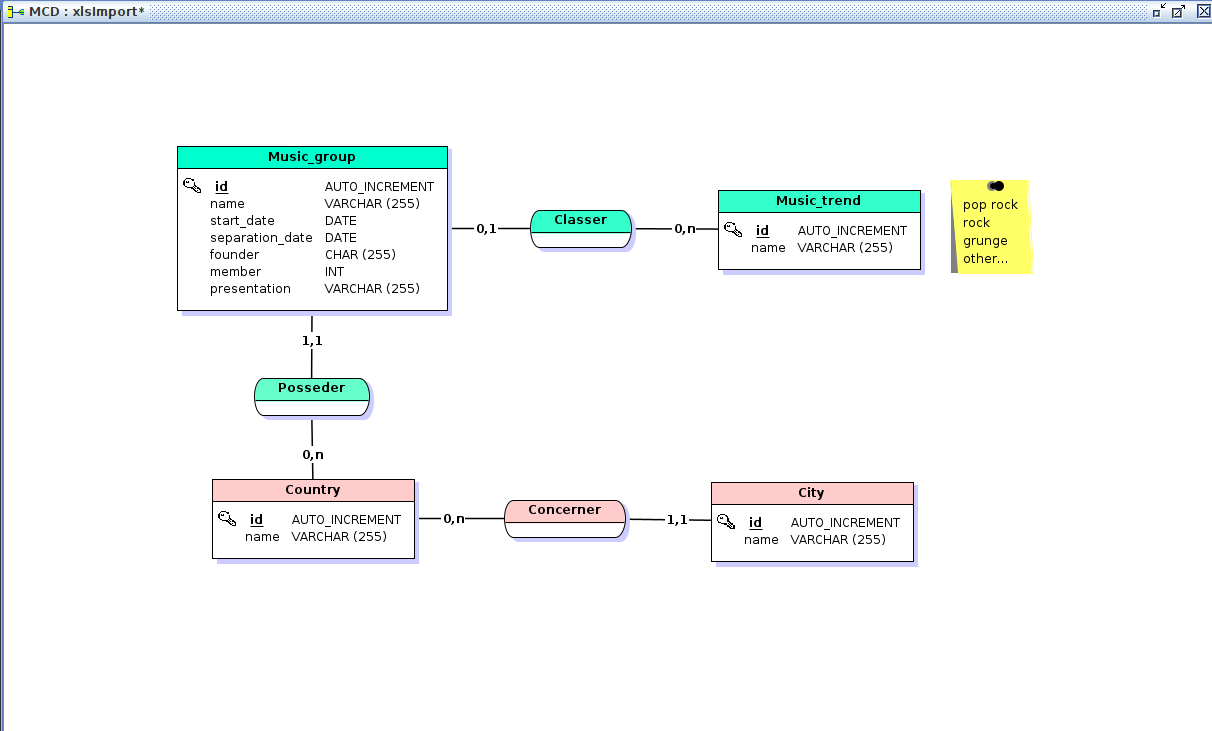
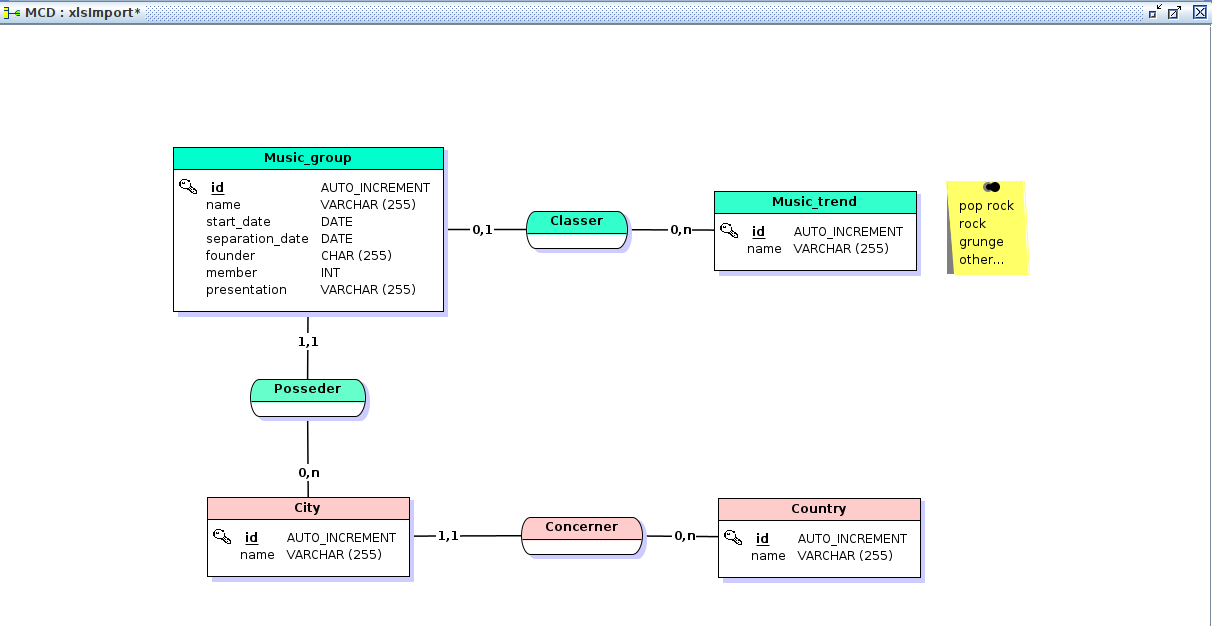
Update Entity & Fixtures: MusicGroup & make relation City N1 MusicGroup

Changed region(s): [[0.1221, 0.1821, 0.8548, 0.9409], [0.0, 0.0, 1.0, 1.0]]

diff --git a/project/XlsBack/src/Entity/City.php b/project/XlsBack/src/Entity/City.php
@@ -4,6 +4,8 @@ namespace App\Entity;
 
 use ApiPlatform\Core\Annotation\ApiResource;
 use App\Repository\CityRepository;
+use Doctrine\Common\Collections\ArrayCollection;
+use Doctrine\Common\Collections\Collection;
 use Doctrine\ORM\Mapping as ORM;
 
 #[ORM\Entity(repositoryClass: CityRepository::class)]
@@ -21,6 +23,14 @@ class City
     #[ORM\ManyToOne(targetEntity: Country::class, inversedBy: 'city')]
     #[ORM\JoinColumn(nullable: true)]
     private $country;
+
+    #[ORM\OneToMany(mappedBy: 'city', targetEntity: MusicGroup::class)]
+    private $musicGroups;
+
+    public function __construct()
+    {
+        $this->musicGroups = new ArrayCollection();
+    }
 
     public function getId(): ?int
     {
@@ -47,6 +57,36 @@ class City
     public function setCountry(?Country $country): self
     {
         $this->country = $country;
+
+        return $this;
+    }
+
+    /**
+     * @return Collection<int, MusicGroup>
+     */
+    public function getMusicGroups(): Collection
+    {
+        return $this->musicGroups;
+    }
+
+    public function addMusicGroup(MusicGroup $musicGroup): self
+    {
+        if (!$this->musicGroups->contains($musicGroup)) {
+            $this->musicGroups[] = $musicGroup;
+            $musicGroup->setCity($this);
+        }
+
+        return $this;
+    }
+
+    public function removeMusicGroup(MusicGroup $musicGroup): self
+    {
+        if ($this->musicGroups->removeElement($musicGroup)) {
+            // set the owning side to null (unless already changed)
+            if ($musicGroup->getCity() === $this) {
+                $musicGroup->setCity(null);
+            }
+        }
 
         return $this;
     }

diff --git a/project/XlsBack/migrations/Version20220701075213.php b/project/XlsBack/migrations/Version20220701075213.php
@@ -1,0 +1,39 @@
+<?php
+
+declare(strict_types=1);
+
+namespace DoctrineMigrations;
+
+use Doctrine\DBAL\Schema\Schema;
+use Doctrine\Migrations\AbstractMigration;
+
+/**
+ * Auto-generated Migration: Please modify to your needs!
+ */
+final class Version20220701075213 extends AbstractMigration
+{
+    public function getDescription(): string
+    {
+        return '';
+    }
+
+    public function up(Schema $schema): void
+    {
+        // this up() migration is auto-generated, please modify it to your needs
+        $this->addSql('ALTER TABLE music_group ADD country_id INT DEFAULT NULL, ADD city_id INT DEFAULT NULL');
+        $this->addSql('ALTER TABLE music_group ADD CONSTRAINT FK_A493F0DF92F3E70 FOREIGN KEY (country_id) REFERENCES country (id)');
+        $this->addSql('ALTER TABLE music_group ADD CONSTRAINT FK_A493F0D8BAC62AF FOREIGN KEY (city_id) REFERENCES city (id)');
+        $this->addSql('CREATE INDEX IDX_A493F0DF92F3E70 ON music_group (country_id)');
+        $this->addSql('CREATE INDEX IDX_A493F0D8BAC62AF ON music_group (city_id)');
+    }
+
+    public function down(Schema $schema): void
+    {
+        // this down() migration is auto-generated, please modify it to your needs
+        $this->addSql('ALTER TABLE music_group DROP FOREIGN KEY FK_A493F0DF92F3E70');
+        $this->addSql('ALTER TABLE music_group DROP FOREIGN KEY FK_A493F0D8BAC62AF');
+        $this->addSql('DROP INDEX IDX_A493F0DF92F3E70 ON music_group');
+        $this->addSql('DROP INDEX IDX_A493F0D8BAC62AF ON music_group');
+        $this->addSql('ALTER TABLE music_group DROP country_id, DROP city_id');
+    }
+}

diff --git a/project/XlsBack/src/DataFixtures/MusicGroupFixtures.php b/project/XlsBack/src/DataFixtures/MusicGroupFixtures.php
@@ -3,6 +3,7 @@
 namespace App\DataFixtures;
 
 use App\Entity\MusicGroup;
+use App\Repository\CityRepository;
 use App\Repository\MusicTrendRepository;
 use Doctrine\Bundle\FixturesBundle\Fixture;
 use Doctrine\Common\DataFixtures\DependentFixtureInterface;
@@ -11,9 +12,12 @@ use Doctrine\Persistence\ObjectManager;
 class MusicGroupFixtures extends Fixture implements DependentFixtureInterface
 {
     private MusicTrendRepository $musicTrendRepository;
-    public function __construct(MusicTrendRepository $musicTrendRepository)
+    private CityRepository $cityRepository;
+
+    public function __construct(MusicTrendRepository $musicTrendRepository, CityRepository $cityRepository)
     {
         $this->musicTrendRepository = $musicTrendRepository;
+        $this->cityRepository = $cityRepository;
     }
 
     public function load(ObjectManager $manager): void
@@ -29,6 +33,7 @@ class MusicGroupFixtures extends Fixture implements DependentFixtureInterface
             $mg->setPresentation($i . 'Lorem ipsum dolor, nisl nisi consectetur nisl, euismod euismod 
                  nisi nisi euismod nisi. Donec euismod');
             $mg->setMusicTrend($this->musicTrendRepository->find(rand(1, 5)));
+            $mg->setCity($this->cityRepository->find(rand(1, 6)));
             $manager->persist($mg);
 
         }

diff --git a/project/XlsBack/migrations/Version20220701075518.php b/project/XlsBack/migrations/Version20220701075518.php
@@ -1,0 +1,35 @@
+<?php
+
+declare(strict_types=1);
+
+namespace DoctrineMigrations;
+
+use Doctrine\DBAL\Schema\Schema;
+use Doctrine\Migrations\AbstractMigration;
+
+/**
+ * Auto-generated Migration: Please modify to your needs!
+ */
+final class Version20220701075518 extends AbstractMigration
+{
+    public function getDescription(): string
+    {
+        return '';
+    }
+
+    public function up(Schema $schema): void
+    {
+        // this up() migration is auto-generated, please modify it to your needs
+        $this->addSql('ALTER TABLE music_group DROP FOREIGN KEY FK_A493F0DF92F3E70');
+        $this->addSql('DROP INDEX IDX_A493F0DF92F3E70 ON music_group');
+        $this->addSql('ALTER TABLE music_group DROP country_id');
+    }
+
+    public function down(Schema $schema): void
+    {
+        // this down() migration is auto-generated, please modify it to your needs
+        $this->addSql('ALTER TABLE music_group ADD country_id INT DEFAULT NULL');
+        $this->addSql('ALTER TABLE music_group ADD CONSTRAINT FK_A493F0DF92F3E70 FOREIGN KEY (country_id) REFERENCES country (id) ON UPDATE NO ACTION ON DELETE NO ACTION');
+        $this->addSql('CREATE INDEX IDX_A493F0DF92F3E70 ON music_group (country_id)');
+    }
+}

diff --git a/project/XlsBack/src/Entity/MusicGroup.php b/project/XlsBack/src/Entity/MusicGroup.php
@@ -45,6 +45,9 @@ class MusicGroup
     #[Groups('music_groups_read')]
     private $name;
 
+    #[ORM\ManyToOne(targetEntity: City::class, inversedBy: 'musicGroups')]
+    private $city;
+
     public function getId(): ?int
     {
         return $this->id;
@@ -130,6 +133,18 @@ class MusicGroup
     public function setName(string $name): self
     {
         $this->name = $name;
+
+        return $this;
+    }
+
+    public function getCity(): ?City
+    {
+        return $this->city;
+    }
+
+    public function setCity(?City $city): self
+    {
+        $this->city = $city;
 
         return $this;
     }

diff --git a/project/XlsBack/src/Entity/Country.php b/project/XlsBack/src/Entity/Country.php
@@ -23,9 +23,11 @@ class Country
     #[ORM\OneToMany(mappedBy: 'country', targetEntity: City::class)]
     private $city;
 
+
     public function __construct()
     {
         $this->city = new ArrayCollection();
+
     }
 
     public function getId(): ?int
